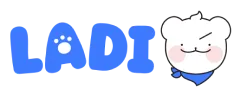
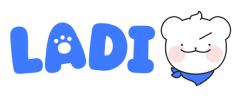
feat: 이미지로 수정 및 반응형 4단계로 분리

diff --git a/app/components/Main.tsx b/app/components/Main.tsx
@@ -1,5 +1,5 @@
 import Icon from './icons'
-import heroSection from '../../public/hero_section.svg'
+import heroSection from '../../public/hero_section.webp'
 import Image from 'next/image'
 import '../styles/phone.css'
 import CircularProgress from './CircularPrograss'
@@ -17,39 +17,46 @@ const calendar = [
 
 export const Main = () => {
   return (
-    <section className="flex h-full flex-col justify-between py-14 text-center lg:mx-20 lg:my-20 lg:text-left xl:mx-40 xl:my-40 xl:flex xl:min-h-[70vh]">
+    <section className="flex h-full flex-col justify-between py-14 text-center md:mx-20 md:my-20 md:text-left xl:mx-40 xl:my-40 xl:flex xl:min-h-[70vh]">
       <div className="flex flex-col">
         <header>
           <div className="mb-5">
-            <h1 className="text-2xl font-bold text-textPrimary lg:h-[2.75rem] lg:text-[2.5rem] xl:h-[3.75rem] xl:text-[3.5rem]">
+            <h1 className="text-2xl font-bold text-textPrimary md:text-4xl xl:h-[3.75rem] xl:text-[3.5rem]">
               당신만의 루틴으로
             </h1>
-            <h2 className="mb-2 text-2xl font-bold text-textPrimary lg:h-[2.75rem] lg:text-[2.5rem] xl:h-[3.75rem] xl:text-[3.5rem]">
+            <h2 className="mb-2 text-2xl font-bold text-textPrimary md:text-4xl xl:h-[3.75rem] xl:text-[3.5rem]">
               더 나은 삶을 디자인하세요
             </h2>
-            <p className="mt whitespace-nowrap text-xs font-medium text-textSecondary lg:h-[1.5rem] lg:text-[1.25rem] xl:mb-10 xl:mt-8 xl:h-[2.25rem] xl:text-[2rem]">
+            <p className="mt whitespace-nowrap text-xs font-medium text-textSecondary md:text-xl xl:mb-10 xl:mt-8 xl:h-[2.25rem] xl:text-[2rem]">
               라디와 함께 간편하게 목표를 설정하고 습관을 만들어보세요
             </p>
           </div>
         </header>
 
-        <nav className="mb-10 hidden flex-row gap-4 lg:flex">
+        <nav className="mb-10 hidden flex-row gap-4 md:flex">
           <a
-            className="inline-flex items-center gap-2 rounded-md bg-black px-4 py-2 text-start xl:w-48"
+            className="y-2 inline-flex items-center gap-2 rounded-md bg-black px-4 text-start xl:w-48"
             href="https://play.google.com/store/apps/details?id=dorun.com.life_designer_client&pcampaignid=web_share"
           >
-            <Icon name="playstore" size={32} />
+            <Icon name="playstore" size={16} className="lg:hidden" />
+            <Icon name="playstore" size={32} className="hidden lg:block" />
             <div className="text-white">
-              <p className="text-[16px] font-medium">Google Play</p>
+              <p className="text-[12px] font-medium lg:text-[16px]">
+                Google Play
+              </p>
             </div>
           </a>
           <a
             className="inline-flex items-center gap-2 rounded-md bg-black px-4 py-2 text-start xl:w-48"
             href="https://apps.apple.com/kr/app/%EB%9D%BC%EB%94%94-%EB%82%98%EB%A7%8C%EC%9D%98-life-designer/id6670728311"
           >
-            <Icon name="apple" size={32} />
+            <Icon name="apple" size={16} className="lg:hidden" />
+            <Icon name="apple" size={32} className="hidden lg:block" />
+
             <div className="text-white">
-              <p className="text-[16px] font-medium">App Store</p>
+              <p className="text-[12px] font-medium lg:text-[16px]">
+                App Store
+              </p>
             </div>
           </a>
         </nav>
@@ -61,13 +68,13 @@ export const Main = () => {
           width={251}
           height={175}
           alt="여자가 요가 앱을 사용하여 루틴을 관리하는 모습"
-          className="z-[-1] md:w-[50vw] lg:absolute lg:bottom-[10vh] lg:right-[10vw] lg:w-[50vw] xl:bottom-[15vh] xl:right-[5vw] xl:w-[40vw] 2xl:right-[5vw] 2xl:top-[30vh] 2xl:h-[671px] 2xl:w-[980px]"
+          className="z-[-1] md:absolute md:bottom-[10vh] md:right-[10vw] md:w-[50vw] lg:w-[50vw] xl:bottom-[15vh] xl:right-[5vw] xl:w-[40vw] 2xl:right-[5vw] 2xl:top-[30vh] 2xl:h-[671px] 2xl:w-[980px]"
           quality={100}
           priority
         />
       </div>
 
-      <nav className="inline-flex flex-col items-center justify-center gap-4 lg:hidden">
+      <nav className="inline-flex flex-col items-center justify-center gap-4 md:hidden">
         <a
           className="inline-flex w-24 items-center gap-2 rounded bg-black px-2 py-1 text-start"
           href="https://play.google.com/store/apps/details?id=dorun.com.life_designer_client&pcampaignid=web_share"
@@ -339,115 +346,6 @@ export const MainFive: React.FC<{
   setShowSix: React.Dispatch<React.SetStateAction<boolean>>
 }> = ({ setShowSix }) => {
   return (
-    // <section className="lg:scrollbar-hidden flex h-fit w-full flex-col rounded-[13.5px] border-[0.375rem] border-[#E5E5E5] py-6 font-notoSans lg:rounded-[26px] lg:border-[0.75rem] lg:scrollbar-hide">
-    //   <nav className="flex flex-col items-center justify-center">
-    //     <h1 className="mx-6 flex h-9 items-center text-xs font-semibold lg:h-16 lg:text-2xl">
-    //       통계
-    //     </h1>
-    //     <ol className="flex w-full flex-row items-center justify-around text-[0.625rem] lg:text-xl">
-    //       <li
-    //         className="flex flex-1 items-center justify-center py-2 font-bold text-primary lg:h-16"
-    //         style={{ borderBottom: '3px solid #1777E9' }}
-    //       >
-    //         기간별
-    //       </li>
-    //       <li className="flex flex-1 justify-center py-2">루틴별</li>
-    //     </ol>
-    //   </nav>
-    //   <section className="m-[1.125rem] flex flex-col gap-[1.125rem] lg:m-[2.125rem] lg:gap-9">
-    //     <h1 className="text-[0.9375rem] font-bold lg:text-3xl">
-    //       지금 까지 <span className="text-primary">연속 15일</span>동안
-    //       <br />
-    //       루틴을 100% 달성했어요
-    //     </h1>
-    //     <ol className="flex flex-col gap-[1.125rem] text-textPrimary">
-    //       <li className="flex justify-between text-[0.65625rem] lg:text-xl">
-    //         최고 연속 달성
-    //         <span className="text-[0.75rem] font-bold lg:text-2xl">21일</span>
-    //       </li>
-    //       <li className="flex justify-between text-[0.65625rem] lg:text-xl">
-    //         누적 달성{' '}
-    //         <span className="text-[0.75rem] font-bold lg:text-2xl">123일</span>
-    //       </li>
-    //     </ol>
-    //   </section>
-    //   <section className="m-[1.125rem] flex flex-col gap-[1.125rem] lg:gap-9">
-    //     <nav className="flex items-center justify-between">
-    //       <Icon name="arrowNavigate" size={22} className="lg:hidden" />
-    //       <Icon name="arrowNavigate" size={44} className="hidden lg:block" />
-    //       <div className="flex items-center justify-center gap-[0.125rem] text-[0.625rem] lg:text-xl">
-    //         <span className="flex items-center justify-center">2024.04</span>
-    //         <Icon name="chart" size={12} className="lg:hidden" />
-    //         <Icon name="chart" size={24} className="hidden lg:block" />
-    //       </div>
-    //       <Icon
-    //         name="phoneArrow"
-    //         size={12}
-    //         className="flex justify-end lg:hidden"
-    //       />
-    //       <Icon
-    //         name="phoneArrow"
-    //         size={24}
-    //         className="hidden lg:flex lg:justify-end"
-    //       />
-    //     </nav>
-    //     <section>
-    //       {calendar.map((week, i) => (
-    //         <ol key={i} className="flex gap-1">
-    //           {week.map((day, j) => (
-    //             <li
-    //               key={j}
-    //               className={`flex size-9 flex-1 items-center justify-center text-center lg:size-[4.375rem] ${
-    //                 day ? 'text-textPrimary' : 'text-textSecondary'
-    //               }`}
-    //             >
-    //               {day == null ? (
-    //                 ''
-    //               ) : day === 1 ? (
-    //                 <Icon name="check1" />
-    //               ) : day === 2 ? (
-    //                 <Icon name="check2" />
-    //               ) : day === 3 ? (
-    //                 <Icon name="check3" />
-    //               ) : (
-    //                 <span className="text-[0.5625rem] lg:text-[1.125rem]">
-    //                   {day}
-    //                 </span>
-    //               )}
-    //             </li>
-    //           ))}
-    //         </ol>
-    //       ))}
-    //     </section>
-    //   </section>
-    //   <hr className="h-[2px] border-none bg-[#e5e5e5] lg:h-1" />
-    //   <footer className="mx-[1.125rem] mt-[1.125rem] flex flex-row justify-between lg:my-9">
-    //     <p className="flex items-center justify-center text-[0.625rem] lg:text-xl">
-    //       22일 월요일{' '}
-    //       <span className="ml-4 mr-2 text-[0.75rem] font-bold text-primary lg:text-2xl">
-    //         완료1
-    //       </span>
-    //       <span className="text-[0.75rem] font-bold text-textPrimary lg:text-2xl">
-    //         실패2
-    //       </span>
-    //     </p>
-    //     <Icon name="arrowNavigate" size={22} className="rotate-180 lg:hidden" />
-    //     <Icon
-    //       name="arrowNavigate"
-    //       size={44}
-    //       className="hidden rotate-180 lg:block"
-    //     />
-    //   </footer>
-    //   <section className="hidden lg:flex lg:w-full">
-    //     <SectionAnimationLongContainer
-    //       delay={100}
-    //       threshold={0.1}
-    //       nextAnimation={setShowSix}
-    //     >
-    //       <MainSix />
-    //     </SectionAnimationLongContainer>
-    //   </section>
-    // </section>
     <section>
       <div className="relative mx-auto h-[900px] w-[280px] lg:h-[1200px] lg:w-[375px] 2xl:h-[2100px] 2xl:w-[520px]">
         <Image
@@ -609,14 +507,6 @@ export const MainSix = () => {
           </ol>
         </div>
       </section>
-    </section>
-  )
-}
-// sectionEight의 메인화면
-export const MainEight = () => {
-  return (
-    <section className="px-[0.75rem] 2xl:px-[11rem]">
-      <EmblaCarousel />
     </section>
   )
 }

diff --git a/app/components/Section.tsx b/app/components/Section.tsx
@@ -11,21 +11,14 @@ import {
   HeaderTwo,
   HederThree,
 } from './Hedaer'
-import {
-  Main,
-  MainEight,
-  MainFive,
-  MainFour,
-  MainSix,
-  MainThree,
-  MainTwo,
-} from './Main'
+import { Main, MainFive, MainFour, MainSix, MainThree, MainTwo } from './Main'
 import {
   SectionAnimationContainer,
   SectionAnimationLongContainer,
 } from './SectionAnimationContainer'
 import { useState } from 'react'
 import Head from 'next/head'
+import EmblaCarousel from './Carousel'
 
 // section one
 export const SectionOne = () => {
@@ -95,7 +88,7 @@ export const SectionThree = () => {
         <SectionAnimationContainer delay={100}>
           <div className="relative mx-auto h-[505px] w-[270px]">
             <Image
-              src={'Main/MainThree.svg'}
+              src={'/Main/MainThree.webp'}
               alt="세부 루틴 설정 핸드폰 이미지"
               fill
               quality={100}
@@ -110,7 +103,7 @@ export const SectionThree = () => {
         <SectionAnimationContainer>
           <div className="relative mx-auto h-[505px] w-[280px] lg:h-[750px] lg:w-[375px] 2xl:h-[1036px] 2xl:w-[520px]">
             <Image
-              src={'Main/MainThree.svg'}
+              src={'/Main/MainThree.webp'}
               alt="세부 루틴 설정 핸드폰 이미지"
               fill
               quality={100}
@@ -146,7 +139,7 @@ export const SectionFour = () => {
       <SectionAnimationContainer delay={100}>
         <div className="relative mx-auto h-[560px] w-[280px] lg:h-[750px] lg:w-[375px] 2xl:h-[1036px] 2xl:w-[520px]">
           <Image
-            src={'Main/MainFour.svg'}
+            src={'/Main/MainFour.webp'}
             alt="루틴 생성 핸드폰 이미지"
             fill
             quality={100}
@@ -298,7 +291,7 @@ export const SectionSeven = () => {
         />
       </Head>
       <Image
-        src={'/hello_ladi.gif'}
+        src={'/gif/hello_ladi.gif'}
         alt="ladi 이미지 파일"
         width={305}
         height={410}
@@ -311,9 +304,9 @@ export const SectionSeven = () => {
 // section Eight
 export const SectionEight = () => {
   return (
-    <section className="my-6 flex flex-col gap-9 lg:m-[10rem]">
+    <section className="mx-11 my-6 flex flex-col justify-center gap-9 md:mt-14 lg:m-[10rem] lg:gap-0 xl:gap-20">
       <HeaderEight />
-      <MainEight />
+      <EmblaCarousel />
     </section>
   )
 }

diff --git a/app/components/Carousel.tsx b/app/components/Carousel.tsx
@@ -1,23 +1,40 @@
-'use client'
-// components/EmblaCarousel.tsx
 import React from 'react'
-import useEmblaCarousel from 'embla-carousel-react'
 import { BetaTestCard, IntroLadiCard } from './Card'
+import Image from 'next/image'
+import Slider from 'react-slick'
+import 'slick-carousel/slick/slick.css'
+import 'slick-carousel/slick/slick-theme.css'
 
 const EmblaCarousel: React.FC = () => {
-  const [emblaRef] = useEmblaCarousel({ loop: true, align: 'center' })
+  const settings = {
+    dots: false,
+    infinite: true,
+    speed: 500,
+    slidesToShow: 1,
+    slidesToScroll: 1,
+  }
 
   return (
-    <div className="overflow-hidden" ref={emblaRef}>
-      <div className="flex items-center justify-around">
-        <div className="mx-2 flex min-w-full flex-shrink-0 items-center justify-center p-[2rem]">
-          <BetaTestCard />
-        </div>
-        <div className="mx-2 flex min-w-full flex-shrink-0 items-center justify-center p-[2rem]">
-          <IntroLadiCard />
-        </div>
+    <Slider {...settings}>
+      <div className="relative h-[150px] w-[270px] md:h-[500px] lg:h-[800px] 2xl:px-[160px] 2xl:py-[71px]">
+        <Image
+          src={'/BetaTest.webp'}
+          alt="세부 루틴 설정 핸드폰 이미지"
+          fill
+          quality={100}
+          style={{ objectFit: 'contain' }}
+        />
       </div>
-    </div>
+      <div className="relative h-[150px] w-[270px] md:h-[500px] lg:h-[800px] 2xl:px-[160px] 2xl:py-[71px]">
+        <Image
+          src={'/intro_ladi.webp'}
+          alt="세부 루틴 설정 핸드폰 이미지"
+          fill
+          quality={100}
+          style={{ objectFit: 'contain' }}
+        />
+      </div>
+    </Slider>
   )
 }
 

diff --git a/app/components/Card.tsx b/app/components/Card.tsx
@@ -3,7 +3,7 @@ import introLadi from '../../public/intro_ladi.svg'
 
 export const BetaTestCard = () => {
   return (
-    <section className="flex h-[150px] w-[270px] flex-col gap-[5px] rounded px-[0.875rem] py-3 shadow-cardMobile lg:gap-6 lg:rounded-3xl lg:px-[4rem] lg:py-[3.5rem] lg:shadow-cardWeb xl:h-[800px] xl:w-[1080px] 2xl:h-[720px] 2xl:w-[1280px]">
+    <section className="md flex h-[150px] w-[270px] flex-col gap-[5px] rounded px-[0.875rem] py-3 shadow-cardMobile lg:gap-6 lg:rounded-3xl lg:px-[4rem] lg:py-[3.5rem] lg:shadow-cardWeb xl:h-[800px] xl:w-[1080px] 2xl:h-[720px] 2xl:w-[1280px]">
       <h1 className="text-[0.875rem] font-bold text-primary lg:text-6xl">
         라디 - 베타 테스트 오픈!
       </h1>
@@ -21,7 +21,7 @@ export const BetaTestCard = () => {
             loading="lazy"
           />
           <Image
-            src={'/study_ladi.gif'}
+            src={'/gif/study_ladi.gif'}
             alt="공부하는 라디"
             width={340}
             height={382}

diff --git a/app/components/Hedaer.tsx b/app/components/Hedaer.tsx
@@ -1,6 +1,6 @@
 import Image from 'next/image'
 import Icon from './icons'
-import ladi from '../../public/ladi.svg'
+import ladi from '../../public/ladi.webp'
 
 // sectionOne의 헤더
 export const Header = () => {
@@ -112,7 +112,7 @@ export const HeaderSix = () => {
 export const HeaderEight = () => {
   return (
     <header className="flex items-center justify-center">
-      <h1 className="text-xl font-bold lg:text-7xl">
+      <h1 className="lg text-xl font-bold md:text-3xl lg:text-4xl xl:text-6xl 2xl:text-7xl">
         라디의 최신 소식들을 알아보세요!
       </h1>
     </header>

diff --git a/app/components/Footer.tsx b/app/components/Footer.tsx
@@ -91,8 +91,9 @@ export const IntroFooter = () => {
           <br />
           이메일: life.designer.dev@gmail.com
         </h2>
-        <h2 className="text-[0.625rem] underline">
-          서비스 이용약관 <br /> 개인정보 처리방침
+        <h2 className="flex flex-col gap-[10px] text-[0.625rem] font-regular underline">
+          <span>서비스 이용약관</span>
+          <span>개인정보 처리방침</span>
         </h2>
       </div>
     </footer>
